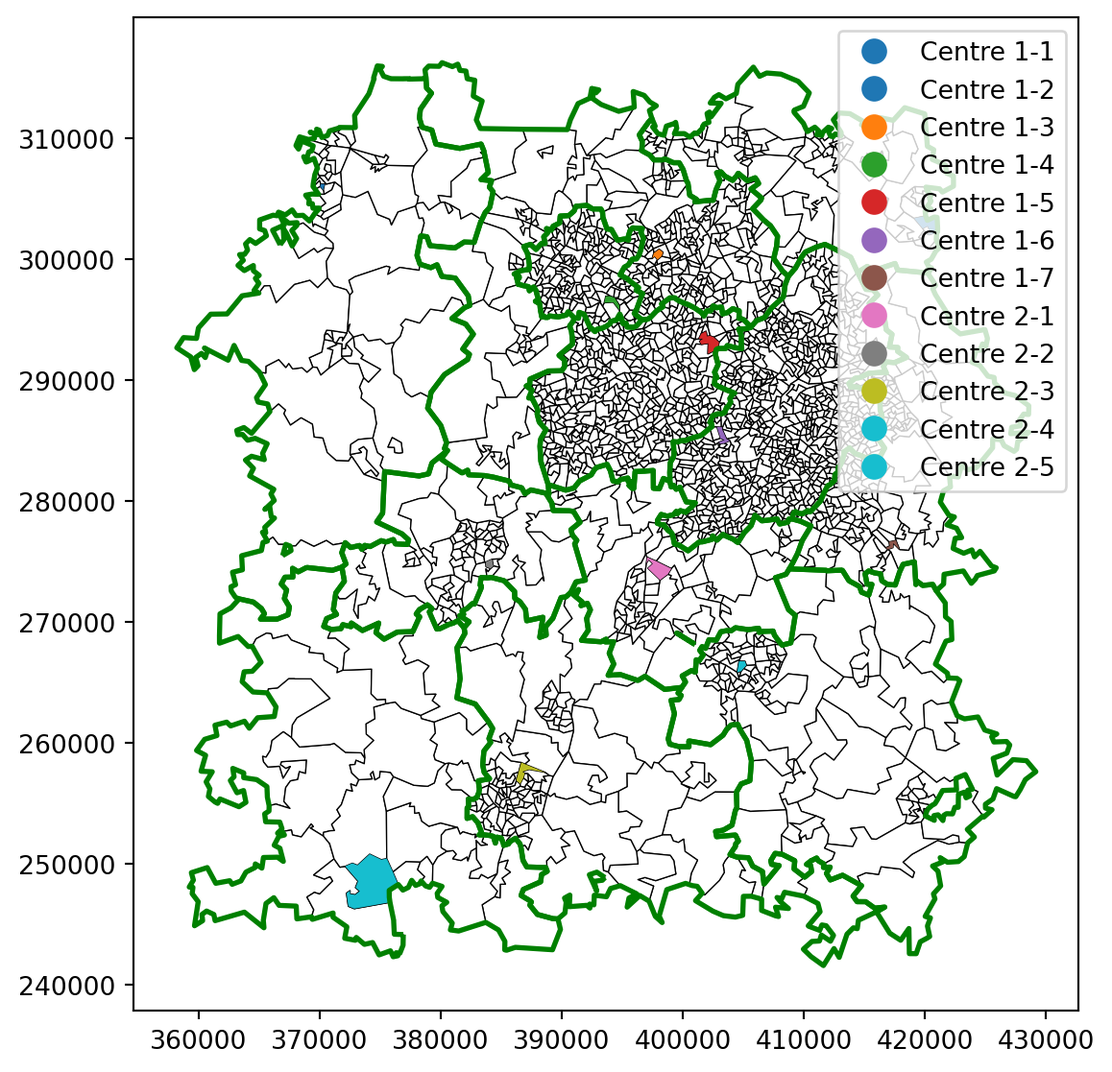
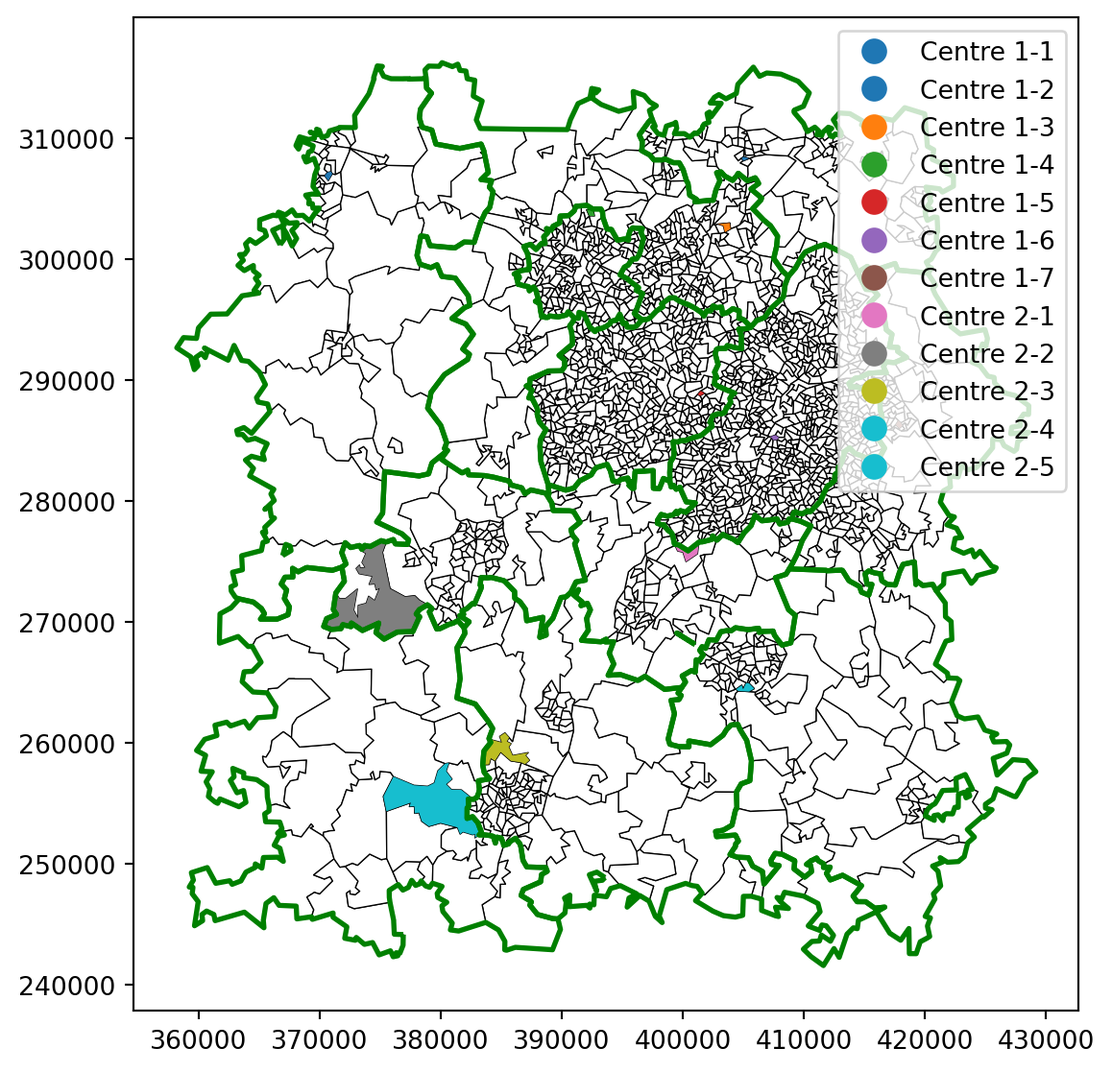
Continue with setting up the solution generator code

diff --git a/docs/boundary_problems_varying_evaluating_simple.html b/docs/boundary_problems_varying_evaluating_simple.html
@@ -452,6 +452,7 @@ pre > code.sourceCode > span > a:first-child::before { text-decoration: underlin
   <li><a href="#getting-the-neighbours" id="toc-getting-the-neighbours" class="nav-link" data-scroll-target="#getting-the-neighbours"><span class="header-section-number">32.1.3</span> Getting the Neighbours</a></li>
   <li><a href="#making-a-dictionary-of-the-existing-allocations" id="toc-making-a-dictionary-of-the-existing-allocations" class="nav-link" data-scroll-target="#making-a-dictionary-of-the-existing-allocations"><span class="header-section-number">32.1.4</span> Making a dictionary of the existing allocations</a></li>
   <li><a href="#generating-starting-allocations" id="toc-generating-starting-allocations" class="nav-link" data-scroll-target="#generating-starting-allocations"><span class="header-section-number">32.1.5</span> Generating starting allocations</a></li>
+  <li><a href="#generating-our-new-regions" id="toc-generating-our-new-regions" class="nav-link" data-scroll-target="#generating-our-new-regions"><span class="header-section-number">32.1.6</span> Generating our new regions</a></li>
   </ul></li>
   </ul>
 </nav>
@@ -569,7 +570,7 @@ Note
 <section id="our-starting-dataframe" class="level3" data-number="32.1.2">
 <h3 data-number="32.1.2" class="anchored" data-anchor-id="our-starting-dataframe"><span class="header-section-number">32.1.2</span> Our starting dataframe</h3>
 <p>To start with, let’s load our boundary data back in. Head back to the previous chapter if any of this feels unfamiliar!</p>
-<div id="e05a1177" class="cell" data-execution_count="4">
+<div id="b3f49408" class="cell" data-execution_count="4">
 <div class="sourceCode cell-code" id="cb1"><pre class="sourceCode python code-with-copy"><code class="sourceCode python"><span id="cb1-1"><a href="#cb1-1" aria-hidden="true" tabindex="-1"></a><span class="im">import</span> pandas <span class="im">as</span> pd</span>
 <span id="cb1-2"><a href="#cb1-2" aria-hidden="true" tabindex="-1"></a><span class="im">import</span> geopandas</span>
 <span id="cb1-3"><a href="#cb1-3" aria-hidden="true" tabindex="-1"></a></span>
@@ -612,7 +613,7 @@ See the caveats in the documentation: https://pandas.pydata.org/pandas-docs/stab
 <h3 data-number="32.1.3" class="anchored" data-anchor-id="getting-the-neighbours"><span class="header-section-number">32.1.3</span> Getting the Neighbours</h3>
 <p>Before we start worrying about the allocations, we first want to generate a column that contains a list of all of the neighbours of a given cell. This will be a lot more efficient than trying to calculate the neighbours from scratch each time we want to pick a new one - and it’s not like the neighbours will change.</p>
 <p><em>GenAI Alert - This code was modified from a suggested approach provided by ChatGPT</em></p>
-<div id="668d09dc" class="cell" data-execution_count="5">
+<div id="a5dc6a02" class="cell" data-execution_count="5">
 <div class="sourceCode cell-code" id="cb3"><pre class="sourceCode python code-with-copy"><code class="sourceCode python"><span id="cb3-1"><a href="#cb3-1" aria-hidden="true" tabindex="-1"></a><span class="kw">def</span> add_neighbors_column(gdf):</span>
 <span id="cb3-2"><a href="#cb3-2" aria-hidden="true" tabindex="-1"></a>    <span class="co">"""</span></span>
 <span id="cb3-3"><a href="#cb3-3" aria-hidden="true" tabindex="-1"></a><span class="co">    Adds a column to the GeoDataFrame containing lists of indices of neighboring polygons</span></span>
@@ -630,7 +631,7 @@ See the caveats in the documentation: https://pandas.pydata.org/pandas-docs/stab
 <span id="cb3-15"><a href="#cb3-15" aria-hidden="true" tabindex="-1"></a>bham_region <span class="op">=</span> add_neighbors_column(bham_region)</span>
 <span id="cb3-16"><a href="#cb3-16" aria-hidden="true" tabindex="-1"></a></span>
 <span id="cb3-17"><a href="#cb3-17" aria-hidden="true" tabindex="-1"></a>bham_region[[<span class="st">'LSOA11CD'</span>, <span class="st">'LSOA11NM'</span>, <span class="st">'LSOA11NMW'</span>, <span class="st">'geometry'</span>, <span class="st">'neighbors'</span>]].head()</span></code><button title="Copy to Clipboard" class="code-copy-button"><i class="bi"></i></button></pre></div>
-<div class="cell-output cell-output-display" data-execution_count="92">
+<div class="cell-output cell-output-display" data-execution_count="219">
 <div>
 <div>
 
@@ -694,7 +695,7 @@ See the caveats in the documentation: https://pandas.pydata.org/pandas-docs/stab
 </div>
 </div>
 </div>
-<div id="9700fc34" class="cell" data-execution_count="6">
+<div id="94ff5c1b" class="cell" data-execution_count="6">
 <div class="sourceCode cell-code" id="cb4"><pre class="sourceCode python code-with-copy"><code class="sourceCode python"><span id="cb4-1"><a href="#cb4-1" aria-hidden="true" tabindex="-1"></a>boundary_allocations_df <span class="op">=</span> pd.read_csv(<span class="st">"boundary_allocations.csv"</span>)</span>
 <span id="cb4-2"><a href="#cb4-2" aria-hidden="true" tabindex="-1"></a>boundary_allocations_df.head()</span>
 <span id="cb4-3"><a href="#cb4-3" aria-hidden="true" tabindex="-1"></a></span>
@@ -710,7 +711,7 @@ See the caveats in the documentation: https://pandas.pydata.org/pandas-docs/stab
 <span id="cb4-13"><a href="#cb4-13" aria-hidden="true" tabindex="-1"></a>bham_region[<span class="st">"centre_dispatcher"</span>] <span class="op">=</span> bham_region[<span class="st">"Centre"</span>].astype(<span class="st">"str"</span>) <span class="op">+</span> <span class="st">'-'</span> <span class="op">+</span> bham_region[<span class="st">"Dispatcher"</span>].astype(<span class="st">"str"</span>)</span>
 <span id="cb4-14"><a href="#cb4-14" aria-hidden="true" tabindex="-1"></a></span>
 <span id="cb4-15"><a href="#cb4-15" aria-hidden="true" tabindex="-1"></a>bham_region</span></code><button title="Copy to Clipboard" class="code-copy-button"><i class="bi"></i></button></pre></div>
-<div class="cell-output cell-output-display" data-execution_count="93">
+<div class="cell-output cell-output-display" data-execution_count="220">
 <div>
 <div>
 
@@ -959,7 +960,7 @@ See the caveats in the documentation: https://pandas.pydata.org/pandas-docs/stab
 <section id="making-a-dictionary-of-the-existing-allocations" class="level3" data-number="32.1.4">
 <h3 data-number="32.1.4" class="anchored" data-anchor-id="making-a-dictionary-of-the-existing-allocations"><span class="header-section-number">32.1.4</span> Making a dictionary of the existing allocations</h3>
 <p>First, let’s make ourselves a dictionary. In this dictionary, the keys will be the centre/dispatcher, and the values will be a list of all LSOAs that currently belong to that dispatcher.</p>
-<div id="111a56db" class="cell" data-execution_count="7">
+<div id="0cc8f6c6" class="cell" data-execution_count="7">
 <div class="sourceCode cell-code" id="cb5"><pre class="sourceCode python code-with-copy"><code class="sourceCode python"><span id="cb5-1"><a href="#cb5-1" aria-hidden="true" tabindex="-1"></a><span class="co"># Get a list of the unique dispatchers</span></span>
 <span id="cb5-2"><a href="#cb5-2" aria-hidden="true" tabindex="-1"></a>dispatchers <span class="op">=</span> bham_region[<span class="st">'centre_dispatcher'</span>].unique()</span>
 <span id="cb5-3"><a href="#cb5-3" aria-hidden="true" tabindex="-1"></a>dispatchers.sort()</span>
@@ -972,9 +973,9 @@ See the caveats in the documentation: https://pandas.pydata.org/pandas-docs/stab
 <span id="cb5-10"><a href="#cb5-10" aria-hidden="true" tabindex="-1"></a>    dispatcher_starting_allocation_dict[dispatcher] <span class="op">=</span> dispatcher_allocation[<span class="st">"LSOA11CD"</span>].unique()</span></code><button title="Copy to Clipboard" class="code-copy-button"><i class="bi"></i></button></pre></div>
 </div>
 <p>Let’s look at what that looks like for one of the dispatchers. Using this, we can access a full list of their LSOAs whenever we need it.</p>
-<div id="0cd0b6f4" class="cell" data-execution_count="8">
+<div id="9d406e42" class="cell" data-execution_count="8">
 <div class="sourceCode cell-code" id="cb6"><pre class="sourceCode python code-with-copy"><code class="sourceCode python"><span id="cb6-1"><a href="#cb6-1" aria-hidden="true" tabindex="-1"></a>dispatcher_starting_allocation_dict[<span class="st">'Centre 2-3'</span>]</span></code><button title="Copy to Clipboard" class="code-copy-button"><i class="bi"></i></button></pre></div>
-<div class="cell-output cell-output-display" data-execution_count="95">
+<div class="cell-output cell-output-display" data-execution_count="222">
 <pre><code>array(['E01032279', 'E01032280', 'E01032281', 'E01032282', 'E01032283',
        'E01032284', 'E01032285', 'E01032286', 'E01032287', 'E01032288',
        'E01032289', 'E01032290', 'E01032292', 'E01032294', 'E01032295',
@@ -1018,7 +1019,7 @@ Note
 <p>There are a couple of different approaches we could take here - and maybe we’ll give our eventual algorithm the option to pick from several options.</p>
 <p><em>Option 1</em></p>
 <p>We could use our new dictionary to select a random starting LSOA for each of our dispatchers. This will give us plenty of randomness - but we may find ourselves with walks that start very near the edge of our original patch, giving us very different boundaries to what existed before.</p>
-<div id="54249a11" class="cell" data-execution_count="9">
+<div id="01f402ed" class="cell" data-execution_count="9">
 <div class="sourceCode cell-code" id="cb8"><pre class="sourceCode python code-with-copy"><code class="sourceCode python"><span id="cb8-1"><a href="#cb8-1" aria-hidden="true" tabindex="-1"></a><span class="im">import</span> random</span>
 <span id="cb8-2"><a href="#cb8-2" aria-hidden="true" tabindex="-1"></a></span>
 <span id="cb8-3"><a href="#cb8-3" aria-hidden="true" tabindex="-1"></a>random_solution_starting_dict <span class="op">=</span> {}</span>
@@ -1028,23 +1029,23 @@ Note
 <span id="cb8-7"><a href="#cb8-7" aria-hidden="true" tabindex="-1"></a>    random_solution_starting_dict[key] <span class="op">=</span> random.choice(value)</span>
 <span id="cb8-8"><a href="#cb8-8" aria-hidden="true" tabindex="-1"></a></span>
 <span id="cb8-9"><a href="#cb8-9" aria-hidden="true" tabindex="-1"></a>random_solution_starting_dict</span></code><button title="Copy to Clipboard" class="code-copy-button"><i class="bi"></i></button></pre></div>
-<div class="cell-output cell-output-display" data-execution_count="96">
-<pre><code>{'Centre 1-1': 'E01014110',
- 'Centre 1-2': 'E01029365',
- 'Centre 1-3': 'E01010285',
- 'Centre 1-4': 'E01010469',
- 'Centre 1-5': 'E01009817',
- 'Centre 1-6': 'E01008928',
- 'Centre 1-7': 'E01010215',
- 'Centre 2-1': 'E01032168',
- 'Centre 2-2': 'E01032443',
- 'Centre 2-3': 'E01032316',
- 'Centre 2-4': 'E01032182',
- 'Centre 2-5': 'E01031203'}</code></pre>
+<div class="cell-output cell-output-display" data-execution_count="223">
+<pre><code>{'Centre 1-1': 'E01028833',
+ 'Centre 1-2': 'E01029395',
+ 'Centre 1-3': 'E01029678',
+ 'Centre 1-4': 'E01010522',
+ 'Centre 1-5': 'E01010049',
+ 'Centre 1-6': 'E01009195',
+ 'Centre 1-7': 'E01010162',
+ 'Centre 2-1': 'E01032160',
+ 'Centre 2-2': 'E01032466',
+ 'Centre 2-3': 'E01032336',
+ 'Centre 2-4': 'E01032180',
+ 'Centre 2-5': 'E01031191'}</code></pre>
 </div>
 </div>
 <p>Let’s turn this into a reusable function, then visualise its functioning.</p>
-<div id="1711b419" class="cell" data-execution_count="10">
+<div id="f91e3f58" class="cell" data-execution_count="10">
 <div class="sourceCode cell-code" id="cb10"><pre class="sourceCode python code-with-copy"><code class="sourceCode python"><span id="cb10-1"><a href="#cb10-1" aria-hidden="true" tabindex="-1"></a><span class="kw">def</span> create_random_starting_dict(input_dictionary):</span>
 <span id="cb10-2"><a href="#cb10-2" aria-hidden="true" tabindex="-1"></a>    random_solution_starting_dict <span class="op">=</span> {}</span>
 <span id="cb10-3"><a href="#cb10-3" aria-hidden="true" tabindex="-1"></a></span>
@@ -1055,19 +1056,19 @@ Note
 <span id="cb10-8"><a href="#cb10-8" aria-hidden="true" tabindex="-1"></a>    <span class="cf">return</span> random_solution_starting_dict</span>
 <span id="cb10-9"><a href="#cb10-9" aria-hidden="true" tabindex="-1"></a></span>
 <span id="cb10-10"><a href="#cb10-10" aria-hidden="true" tabindex="-1"></a>create_random_starting_dict(dispatcher_starting_allocation_dict)</span></code><button title="Copy to Clipboard" class="code-copy-button"><i class="bi"></i></button></pre></div>
-<div class="cell-output cell-output-display" data-execution_count="97">
-<pre><code>{'Centre 1-1': 'E01028836',
- 'Centre 1-2': 'E01029489',
- 'Centre 1-3': 'E01010293',
- 'Centre 1-4': 'E01010468',
- 'Centre 1-5': 'E01009865',
- 'Centre 1-6': 'E01009224',
- 'Centre 1-7': 'E01010221',
- 'Centre 2-1': 'E01032129',
- 'Centre 2-2': 'E01032477',
- 'Centre 2-3': 'E01032416',
- 'Centre 2-4': 'E01014001',
- 'Centre 2-5': 'E01032254'}</code></pre>
+<div class="cell-output cell-output-display" data-execution_count="224">
+<pre><code>{'Centre 1-1': 'E01014109',
+ 'Centre 1-2': 'E01029529',
+ 'Centre 1-3': 'E01010295',
+ 'Centre 1-4': 'E01010440',
+ 'Centre 1-5': 'E01009818',
+ 'Centre 1-6': 'E01009025',
+ 'Centre 1-7': 'E01010155',
+ 'Centre 2-1': 'E01032131',
+ 'Centre 2-2': 'E01032482',
+ 'Centre 2-3': 'E01032371',
+ 'Centre 2-4': 'E01032207',
+ 'Centre 2-5': 'E01032249'}</code></pre>
 </div>
 </div>
 <p>Now, let’s generate some solutions and plot them.</p>
@@ -1084,7 +1085,7 @@ Click here to see the code for generating our dispatch boundaries dataframe
 </div>
 <div id="callout-7" class="callout-7-contents callout-collapse collapse">
 <div class="callout-body-container callout-body">
-<div id="56bbf26d" class="cell" data-execution_count="11">
+<div id="9fb58fa6" class="cell" data-execution_count="11">
 <div class="sourceCode cell-code" id="cb12"><pre class="sourceCode python code-with-copy"><code class="sourceCode python"><span id="cb12-1"><a href="#cb12-1" aria-hidden="true" tabindex="-1"></a><span class="co"># Group by the specified column</span></span>
 <span id="cb12-2"><a href="#cb12-2" aria-hidden="true" tabindex="-1"></a>grouped_dispatcher_gdf <span class="op">=</span> bham_region.groupby(<span class="st">"centre_dispatcher"</span>)</span>
 <span id="cb12-3"><a href="#cb12-3" aria-hidden="true" tabindex="-1"></a></span>
@@ -1105,7 +1106,7 @@ Click here to see the code for generating our dispatch boundaries dataframe
 <span id="cb12-18"><a href="#cb12-18" aria-hidden="true" tabindex="-1"></a>grouped_dispatcher_gdf_boundary <span class="op">=</span> geopandas.GeoDataFrame(boundary_list, geometry<span class="op">=</span><span class="st">'boundary'</span>, crs<span class="op">=</span>bham_region.crs)</span>
 <span id="cb12-19"><a href="#cb12-19" aria-hidden="true" tabindex="-1"></a></span>
 <span id="cb12-20"><a href="#cb12-20" aria-hidden="true" tabindex="-1"></a>grouped_dispatcher_gdf_boundary.head()</span></code><button title="Copy to Clipboard" class="code-copy-button"><i class="bi"></i></button></pre></div>
-<div class="cell-output cell-output-display" data-execution_count="98">
+<div class="cell-output cell-output-display" data-execution_count="225">
 <div>
 <div>
 
@@ -1155,7 +1156,7 @@ Click here to see the code for generating our dispatch boundaries dataframe
 </div>
 </div>
 <p>Some of the regions are quite small, so it may be hard to see them all!</p>
-<div id="16171330" class="cell" data-execution_count="12">
+<div id="c8995d80" class="cell" data-execution_count="12">
 <div class="sourceCode cell-code" id="cb13"><pre class="sourceCode python code-with-copy"><code class="sourceCode python"><span id="cb13-1"><a href="#cb13-1" aria-hidden="true" tabindex="-1"></a><span class="co"># First, let's plot the outline of our entire region</span></span>
 <span id="cb13-2"><a href="#cb13-2" aria-hidden="true" tabindex="-1"></a>ax <span class="op">=</span> bham_region.plot(</span>
 <span id="cb13-3"><a href="#cb13-3" aria-hidden="true" tabindex="-1"></a>    figsize<span class="op">=</span>(<span class="dv">10</span>,<span class="dv">7</span>),</span>
@@ -1193,7 +1194,7 @@ Click here to see the code for generating our dispatch boundaries dataframe
 </div>
 <p><em>Option 2</em></p>
 <p>Another alternative is to start with the most central region of the existing regions for each dispatcher.</p>
-<div id="c9f99f2a" class="cell" data-execution_count="13">
+<div id="1f64a0c2" class="cell" data-execution_count="13">
 <div class="sourceCode cell-code" id="cb14"><pre class="sourceCode python code-with-copy"><code class="sourceCode python"><span id="cb14-1"><a href="#cb14-1" aria-hidden="true" tabindex="-1"></a><span class="im">from</span> shapely.geometry <span class="im">import</span> Point</span>
 <span id="cb14-2"><a href="#cb14-2" aria-hidden="true" tabindex="-1"></a></span>
 <span id="cb14-3"><a href="#cb14-3" aria-hidden="true" tabindex="-1"></a><span class="kw">def</span> find_most_central_polygon(gdf):</span>
@@ -1219,7 +1220,7 @@ Click here to see the code for generating our dispatch boundaries dataframe
 <span id="cb14-23"><a href="#cb14-23" aria-hidden="true" tabindex="-1"></a></span>
 <span id="cb14-24"><a href="#cb14-24" aria-hidden="true" tabindex="-1"></a>most_central <span class="op">=</span> get_central_polygon_per_group(bham_region, <span class="st">"centre_dispatcher"</span>)</span>
 <span id="cb14-25"><a href="#cb14-25" aria-hidden="true" tabindex="-1"></a>most_central</span></code><button title="Copy to Clipboard" class="code-copy-button"><i class="bi"></i></button></pre></div>
-<div class="cell-output cell-output-display" data-execution_count="100">
+<div class="cell-output cell-output-display" data-execution_count="227">
 <div>
 <div>
 
@@ -1502,7 +1503,7 @@ Click here to see the code for generating our dispatch boundaries dataframe
 </div>
 </div>
 <p>Let’s plot this.</p>
-<div id="4fe88a64" class="cell" data-execution_count="14">
+<div id="885e9078" class="cell" data-execution_count="14">
 <div class="sourceCode cell-code" id="cb15"><pre class="sourceCode python code-with-copy"><code class="sourceCode python"><span id="cb15-1"><a href="#cb15-1" aria-hidden="true" tabindex="-1"></a><span class="co"># First, let's plot the outline of our entire region</span></span>
 <span id="cb15-2"><a href="#cb15-2" aria-hidden="true" tabindex="-1"></a>ax <span class="op">=</span> bham_region.plot(</span>
 <span id="cb15-3"><a href="#cb15-3" aria-hidden="true" tabindex="-1"></a>    figsize<span class="op">=</span>(<span class="dv">10</span>,<span class="dv">7</span>),</span>
@@ -1533,6 +1534,123 @@ Click here to see the code for generating our dispatch boundaries dataframe
 </div>
 </div>
 <p>You can see that in some regions the most central point can still be on a boundary, even</p>
+</section>
+<section id="generating-our-new-regions" class="level3" data-number="32.1.6">
+<h3 data-number="32.1.6" class="anchored" data-anchor-id="generating-our-new-regions"><span class="header-section-number">32.1.6</span> Generating our new regions</h3>
+<p>As a recap, what we want to do now is introduce a number of ‘players’ who will play a territory-grabbing game. Our ‘players’ - the dispatchers - will each have a single turn, pass control to the next dispatcher, and so on.</p>
+<p>On each turn, they will be presented with a long list of the regions that share a boundary with any of their existing territories. They will then choose a territory at random from that list.</p>
+<p>However, this doesn’t mean their territory will expand on every turn.</p>
+<ul>
+<li>The territory that they choose could be one of their existing territories (as we are checking for a boundary with <em>any</em> of their existing territories on a per-territory basis - not the outer boundary of their entire territory)</li>
+<li>There will also be a random chance introduced that they just don’t take a go</li>
+<li>They may also try to take a territory that is already owned by a different dispatcher, in which case they will not gain anything on the turn - though we could always add in an option like them ‘battling’ for the territory</li>
+</ul>
+<p>So let’s start coding this!</p>
+<p>First, let’s work on the logic for selecting a territory from their existing list. We’ll just do this with a single dispatcher for now.</p>
+<p>We’ll filter down to this and remind ourselves what the available data on neighbouring territory looks like.</p>
+<div id="d92bebf5" class="cell" data-execution_count="15">
+<div class="sourceCode cell-code" id="cb16"><pre class="sourceCode python code-with-copy"><code class="sourceCode python"><span id="cb16-1"><a href="#cb16-1" aria-hidden="true" tabindex="-1"></a><span class="co"># We'll start with dispatcher 5 from centre 2, and we'll use the most central point of their existing territory</span></span>
+<span id="cb16-2"><a href="#cb16-2" aria-hidden="true" tabindex="-1"></a></span>
+<span id="cb16-3"><a href="#cb16-3" aria-hidden="true" tabindex="-1"></a>dispatcher <span class="op">=</span> <span class="st">"Centre 2-5"</span></span>
+<span id="cb16-4"><a href="#cb16-4" aria-hidden="true" tabindex="-1"></a></span>
+<span id="cb16-5"><a href="#cb16-5" aria-hidden="true" tabindex="-1"></a>starting_point <span class="op">=</span> most_central[most_central[<span class="st">"centre_dispatcher"</span>] <span class="op">==</span> dispatcher]</span>
+<span id="cb16-6"><a href="#cb16-6" aria-hidden="true" tabindex="-1"></a></span>
+<span id="cb16-7"><a href="#cb16-7" aria-hidden="true" tabindex="-1"></a>starting_point[<span class="st">'neighbors'</span>]</span></code><button title="Copy to Clipboard" class="code-copy-button"><i class="bi"></i></button></pre></div>
+<div class="cell-output cell-output-display" data-execution_count="229">
+<pre><code>centre_dispatcher
+Centre 2-5    [E01031188, E01031195, E01031204, E01031208, E...
+Name: neighbors, dtype: object</code></pre>
+</div>
+</div>
+<p>Let’s now pick a random neighbour, and work out a way to store the new allocations so we can ensure we know who owns what territory, and we don’t end up with a situation where two dispatchers own the same territory.</p>
+<div id="1812a984" class="cell" data-execution_count="16">
+<div class="sourceCode cell-code" id="cb18"><pre class="sourceCode python code-with-copy"><code class="sourceCode python"><span id="cb18-1"><a href="#cb18-1" aria-hidden="true" tabindex="-1"></a>owned_territory_dict <span class="op">=</span> {}</span>
+<span id="cb18-2"><a href="#cb18-2" aria-hidden="true" tabindex="-1"></a></span>
+<span id="cb18-3"><a href="#cb18-3" aria-hidden="true" tabindex="-1"></a>owned_territory_dict[dispatcher] <span class="op">=</span> [starting_point[<span class="st">'LSOA11CD'</span>].values[<span class="dv">0</span>]]</span>
+<span id="cb18-4"><a href="#cb18-4" aria-hidden="true" tabindex="-1"></a></span>
+<span id="cb18-5"><a href="#cb18-5" aria-hidden="true" tabindex="-1"></a>owned_territory_dict</span></code><button title="Copy to Clipboard" class="code-copy-button"><i class="bi"></i></button></pre></div>
+<div class="cell-output cell-output-display" data-execution_count="230">
+<pre><code>{'Centre 2-5': ['E01031187']}</code></pre>
+</div>
+</div>
+<div id="140f9f93" class="cell" data-execution_count="17">
+<div class="sourceCode cell-code" id="cb20"><pre class="sourceCode python code-with-copy"><code class="sourceCode python"><span id="cb20-1"><a href="#cb20-1" aria-hidden="true" tabindex="-1"></a>selected_territory <span class="op">=</span> random.choice(starting_point[<span class="st">'neighbors'</span>].values[<span class="dv">0</span>])</span>
+<span id="cb20-2"><a href="#cb20-2" aria-hidden="true" tabindex="-1"></a></span>
+<span id="cb20-3"><a href="#cb20-3" aria-hidden="true" tabindex="-1"></a>selected_territory</span></code><button title="Copy to Clipboard" class="code-copy-button"><i class="bi"></i></button></pre></div>
+<div class="cell-output cell-output-display" data-execution_count="231">
+<pre><code>'E01031188'</code></pre>
+</div>
+</div>
+<div id="ada2d3b7" class="cell" data-execution_count="18">
+<div class="sourceCode cell-code" id="cb22"><pre class="sourceCode python code-with-copy"><code class="sourceCode python"><span id="cb22-1"><a href="#cb22-1" aria-hidden="true" tabindex="-1"></a>owned_territory_dict[dispatcher].append(selected_territory)</span>
+<span id="cb22-2"><a href="#cb22-2" aria-hidden="true" tabindex="-1"></a></span>
+<span id="cb22-3"><a href="#cb22-3" aria-hidden="true" tabindex="-1"></a>owned_territory_dict</span></code><button title="Copy to Clipboard" class="code-copy-button"><i class="bi"></i></button></pre></div>
+<div class="cell-output cell-output-display" data-execution_count="232">
+<pre><code>{'Centre 2-5': ['E01031187', 'E01031188']}</code></pre>
+</div>
+</div>
+<p>Fantastic! We now have a simple way to get and store this.</p>
+<p>Let’s have a go at giving another dispatcher a turn to grab territory.</p>
+<div id="80d23b60" class="cell" data-execution_count="19">
+<div class="sourceCode cell-code" id="cb24"><pre class="sourceCode python code-with-copy"><code class="sourceCode python"><span id="cb24-1"><a href="#cb24-1" aria-hidden="true" tabindex="-1"></a>dispatcher <span class="op">=</span> <span class="st">"Centre 1-1"</span></span>
+<span id="cb24-2"><a href="#cb24-2" aria-hidden="true" tabindex="-1"></a></span>
+<span id="cb24-3"><a href="#cb24-3" aria-hidden="true" tabindex="-1"></a>starting_point <span class="op">=</span> most_central[most_central[<span class="st">"centre_dispatcher"</span>] <span class="op">==</span> dispatcher]</span>
+<span id="cb24-4"><a href="#cb24-4" aria-hidden="true" tabindex="-1"></a></span>
+<span id="cb24-5"><a href="#cb24-5" aria-hidden="true" tabindex="-1"></a><span class="co"># This time we add to the existing dict rather than setting it up anew</span></span>
+<span id="cb24-6"><a href="#cb24-6" aria-hidden="true" tabindex="-1"></a>owned_territory_dict[dispatcher] <span class="op">=</span> [starting_point[<span class="st">'LSOA11CD'</span>].values[<span class="dv">0</span>]]</span>
+<span id="cb24-7"><a href="#cb24-7" aria-hidden="true" tabindex="-1"></a></span>
+<span id="cb24-8"><a href="#cb24-8" aria-hidden="true" tabindex="-1"></a><span class="co"># Now we do our random selection</span></span>
+<span id="cb24-9"><a href="#cb24-9" aria-hidden="true" tabindex="-1"></a>selected_territory <span class="op">=</span> random.choice(starting_point[<span class="st">'neighbors'</span>].values[<span class="dv">0</span>])</span>
+<span id="cb24-10"><a href="#cb24-10" aria-hidden="true" tabindex="-1"></a></span>
+<span id="cb24-11"><a href="#cb24-11" aria-hidden="true" tabindex="-1"></a>owned_territory_dict[dispatcher].append(selected_territory)</span>
+<span id="cb24-12"><a href="#cb24-12" aria-hidden="true" tabindex="-1"></a></span>
+<span id="cb24-13"><a href="#cb24-13" aria-hidden="true" tabindex="-1"></a>owned_territory_dict</span></code><button title="Copy to Clipboard" class="code-copy-button"><i class="bi"></i></button></pre></div>
+<div class="cell-output cell-output-display" data-execution_count="233">
+<pre><code>{'Centre 2-5': ['E01031187', 'E01031188'],
+ 'Centre 1-1': ['E01028832', 'E01028850']}</code></pre>
+</div>
+</div>
+<p>This is a good step, and for now we’re unlikely to run into the issue of different dispatchers owning the same territory - though it’s not impossible! So let’s add in another dispatcher, but this time we’ll check first that it’s not owned by anyone.</p>
+<p>First, let’s pull back the full list of owned territories from our dict.</p>
+<div id="be33b19d" class="cell" data-execution_count="20">
+<div class="sourceCode cell-code" id="cb26"><pre class="sourceCode python code-with-copy"><code class="sourceCode python"><span id="cb26-1"><a href="#cb26-1" aria-hidden="true" tabindex="-1"></a><span class="bu">list</span>(owned_territory_dict.values())</span></code><button title="Copy to Clipboard" class="code-copy-button"><i class="bi"></i></button></pre></div>
+<div class="cell-output cell-output-display" data-execution_count="234">
+<pre><code>[['E01031187', 'E01031188'], ['E01028832', 'E01028850']]</code></pre>
+</div>
+</div>
+<p>We’ll need to convert this into a single list. We could use a for loop, or a list comprehension.</p>
+<div id="39a1b6cc" class="cell" data-execution_count="21">
+<div class="sourceCode cell-code" id="cb28"><pre class="sourceCode python code-with-copy"><code class="sourceCode python"><span id="cb28-1"><a href="#cb28-1" aria-hidden="true" tabindex="-1"></a>territory_list <span class="op">=</span> [element <span class="cf">for</span> sub_list <span class="kw">in</span> <span class="bu">list</span>(owned_territory_dict.values()) <span class="cf">for</span> element <span class="kw">in</span> sub_list]</span>
+<span id="cb28-2"><a href="#cb28-2" aria-hidden="true" tabindex="-1"></a></span>
+<span id="cb28-3"><a href="#cb28-3" aria-hidden="true" tabindex="-1"></a><span class="co"># By using set, then list on the result of that, we get a list of unique values</span></span>
+<span id="cb28-4"><a href="#cb28-4" aria-hidden="true" tabindex="-1"></a>territory_list <span class="op">=</span> <span class="bu">list</span>(<span class="bu">set</span>(territory_list))</span>
+<span id="cb28-5"><a href="#cb28-5" aria-hidden="true" tabindex="-1"></a></span>
+<span id="cb28-6"><a href="#cb28-6" aria-hidden="true" tabindex="-1"></a>territory_list</span></code><button title="Copy to Clipboard" class="code-copy-button"><i class="bi"></i></button></pre></div>
+<div class="cell-output cell-output-display" data-execution_count="235">
+<pre><code>['E01031187', 'E01031188', 'E01028850', 'E01028832']</code></pre>
+</div>
+</div>
+<p>Now we can use this in our checks.</p>
+<div id="c4937772" class="cell" data-execution_count="22">
+<div class="sourceCode cell-code" id="cb30"><pre class="sourceCode python code-with-copy"><code class="sourceCode python"><span id="cb30-1"><a href="#cb30-1" aria-hidden="true" tabindex="-1"></a>dispatcher <span class="op">=</span> <span class="st">"Centre 1-5"</span></span>
+<span id="cb30-2"><a href="#cb30-2" aria-hidden="true" tabindex="-1"></a></span>
+<span id="cb30-3"><a href="#cb30-3" aria-hidden="true" tabindex="-1"></a>starting_point <span class="op">=</span> most_central[most_central[<span class="st">"centre_dispatcher"</span>] <span class="op">==</span> dispatcher]</span>
+<span id="cb30-4"><a href="#cb30-4" aria-hidden="true" tabindex="-1"></a></span>
+<span id="cb30-5"><a href="#cb30-5" aria-hidden="true" tabindex="-1"></a>owned_territory_dict[dispatcher] <span class="op">=</span> [starting_point[<span class="st">'LSOA11CD'</span>].values[<span class="dv">0</span>]]</span>
+<span id="cb30-6"><a href="#cb30-6" aria-hidden="true" tabindex="-1"></a></span>
+<span id="cb30-7"><a href="#cb30-7" aria-hidden="true" tabindex="-1"></a>selected_territory <span class="op">=</span> random.choice(starting_point[<span class="st">'neighbors'</span>].values[<span class="dv">0</span>])</span>
+<span id="cb30-8"><a href="#cb30-8" aria-hidden="true" tabindex="-1"></a></span>
+<span id="cb30-9"><a href="#cb30-9" aria-hidden="true" tabindex="-1"></a><span class="co"># Only add the territory if it's not already in the list of owned territory</span></span>
+<span id="cb30-10"><a href="#cb30-10" aria-hidden="true" tabindex="-1"></a><span class="cf">if</span> selected_territory <span class="kw">not</span> <span class="kw">in</span> territory_list:</span>
+<span id="cb30-11"><a href="#cb30-11" aria-hidden="true" tabindex="-1"></a>    owned_territory_dict[dispatcher].append(selected_territory)</span>
+<span id="cb30-12"><a href="#cb30-12" aria-hidden="true" tabindex="-1"></a></span>
+<span id="cb30-13"><a href="#cb30-13" aria-hidden="true" tabindex="-1"></a>owned_territory_dict</span></code><button title="Copy to Clipboard" class="code-copy-button"><i class="bi"></i></button></pre></div>
+<div class="cell-output cell-output-display" data-execution_count="236">
+<pre><code>{'Centre 2-5': ['E01031187', 'E01031188'],
+ 'Centre 1-1': ['E01028832', 'E01028850'],
+ 'Centre 1-5': ['E01010043', 'E01009894']}</code></pre>
+</div>
+</div>
 <p><em>Note - when we get to the end, can we give a list of good solutions, but prioritise the solutions that are most similar to the starting solution?</em></p>
 
 
